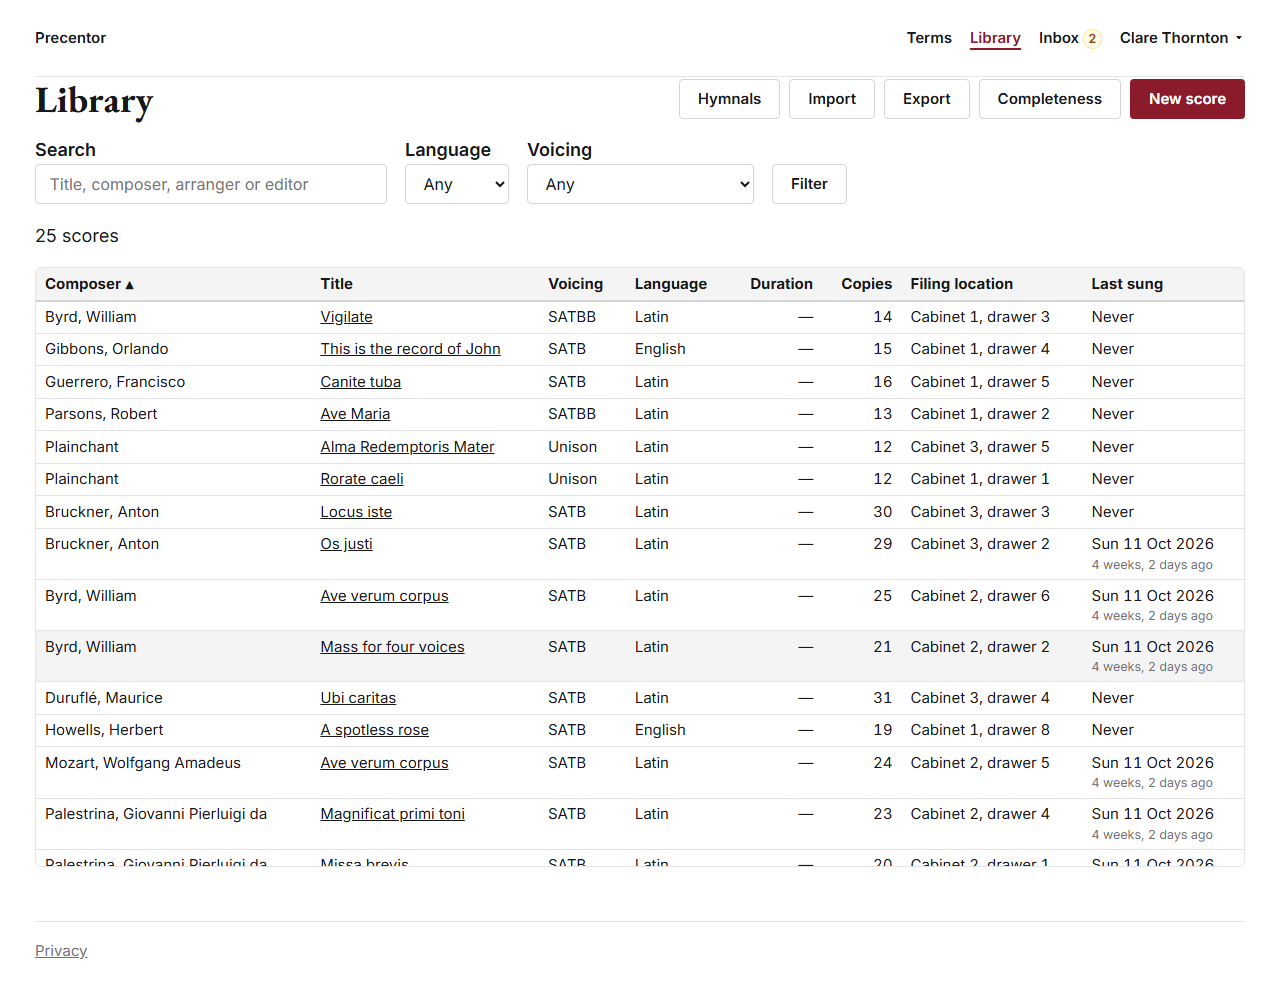
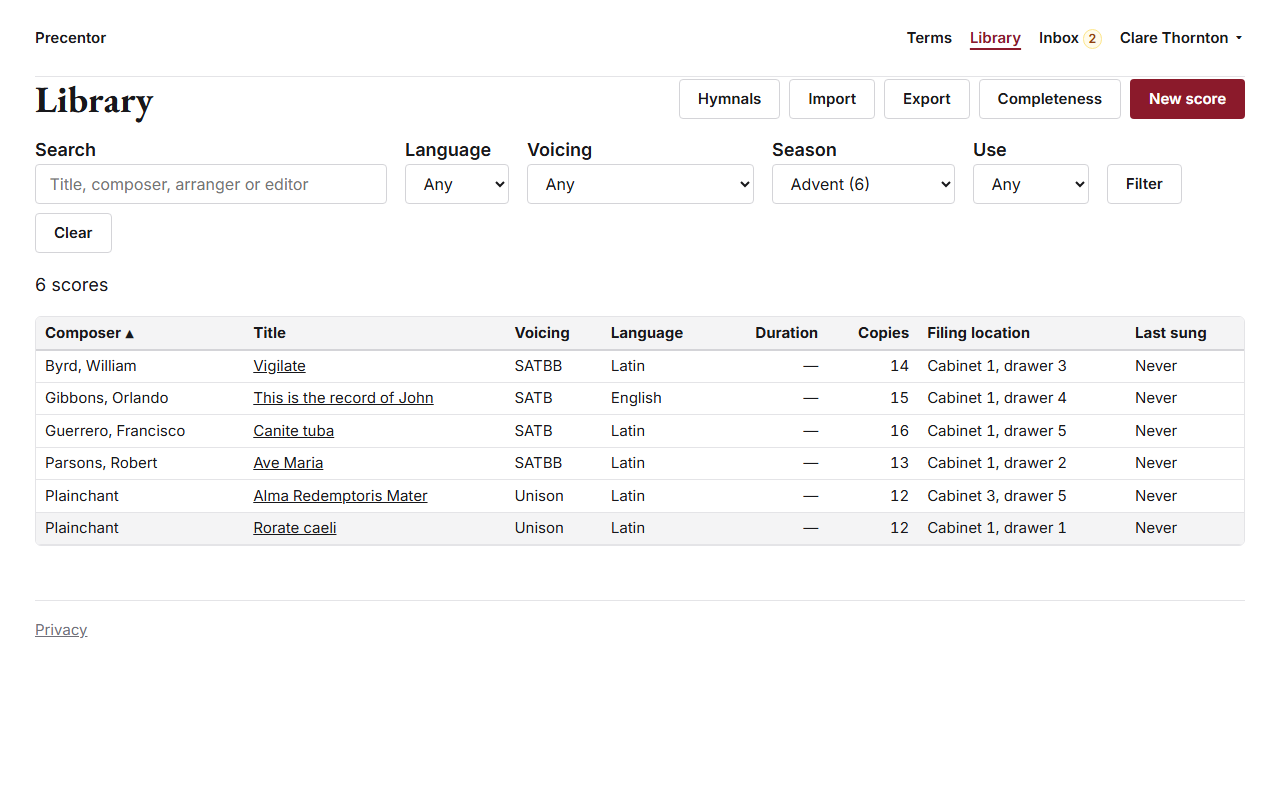
Describe the Library's new Suitable-for filters
The README, the user stories and the models plan spoke of a filter
by what scores suit that didn't exist. They now describe the menus as
built, and Figure 4 shows one in use rather than an address edited by
hand.

diff --git a/README.md b/README.md
@@ -196,11 +196,11 @@ they're filed, the duration, background and interpretation notes, and
 a vocal range for each part. Scores can be tagged with the uses,
 seasons and occasions they suit.
 
-**In the app.** The librarian adds scores, finds them again with search and filters, and keeps each one's details up to date.
+**In the app.** The librarian adds scores, finds them again with search and filters, and keeps each one's details up to date. The filters are Language and Voicing, and Season, Use and Occasion for what a score suits; each lists only what the library has, with a count, and choosing several shows the scores that match them all.
 
-![The library table with the scores suited to Advent ranked first, with columns for composer, voicing, language, copies and last sung](docs/screenshots/08-library-filtered.png)
+![The library filtered to the scores suited to Advent, with the Season menu showing Advent and columns for composer, voicing, language, copies and last sung](docs/screenshots/08-library-filtered.png)
 
-_Figure 4. The library with music suited to Advent ranked first, and the last-sung date for each score._
+_Figure 4. The library filtered to music suited to Advent: the Season menu set to Advent, and its six scores._
 
 ![A score's page for Parsons' Ave Maria showing its details and the services it has been planned for](docs/screenshots/09-score.png)
 
@@ -999,7 +999,8 @@ behind each choice is in [`docs/models_plan.md`](docs/models_plan.md).
 - A service has one main **liturgical occasion** and any number of
   additional ones. Occasions belong to a **liturgical season**. A score
   or a hymn can be tagged as suited to occasions, seasons and use
-  types, which ranks it higher when a piece is proposed.
+  types, which ranks it higher when a piece is proposed, and the
+  Library can be filtered by those tags.
 - **Comments** attach to a term, a service or a piece through one
   generic relation (`content_type` and `object_id`), and a reply points
   at the comment it answers.
@@ -1548,7 +1549,7 @@ the role column in §2 says who may use each one.
 | Organisation                | Sign-up page (`signup`)                                   | Its name on every page and the music list          | Church name on Settings (`site_config_update`)                                                  | The owner, after typing its name (`delete_church`)           | not needed: everyone sees only their own                                   |
 | User                        | Joining by invitation (`join`); sign-up for the owner     | Members page (`member_list`)                       | Role (`change_role`), owner (`make_owner`), own password (`password_change`) or by a reset link the owner makes (`reset_link`), opened at `password_reset_confirm` | Removed, not deleted (`remove`), and brought back (`restore`); their own account, after their password (`delete_account`) | Members page                                                               |
 | Invitation                  | Invite someone (`invite`)                                 | Link shown once (`invitation_link`); Members page  | not available (cancel and make another)                                                         | Cancel (`invitation_cancel`)                                  | Members page, "Waiting to join"                                            |
-| Score                       | Add score (`score_create`), or many at once by importing   | Library (`score_list`), score page (`score_detail`), or all as a CSV (`export_library`) | Edit (`score_update`)                                                                          | Delete, after a confirmation (`score_delete`)                 | Search box, Language, Voicing, Suitable-for filters and sortable columns; the completeness page (`completeness`) |
+| Score                       | Add score (`score_create`), or many at once by importing   | Library (`score_list`), score page (`score_detail`), or all as a CSV (`export_library`) | Edit (`score_update`)                                                                          | Delete, after a confirmation (`score_delete`)                 | Search box; Language, Voicing, Season, Use and Occasion filters; sortable columns; the completeness page (`completeness`) |
 | Import (`ScoreImport`)      | Import a spreadsheet or a Google Sheets link (`score_import`), from the template (`import_template`) | Result page (`score_import_detail`), Imports list (`score_import_list`) | Keep it (`keep_import`)                                                                          | Remove it and its scores, after a confirmation (`remove_import`) | Imports list, waiting ones first; a notice on the Library while one waits |
 | Hymnal                      | New hymnal (`hymnal_create`)                              | Hymnals (`hymnal_list`), its page (`hymnal_detail`) | Edit, archive (`hymnal_update`) | Delete, after a confirmation, unless hymns were sung from it (`hymnal_delete`) | Hymnals page, linked from the Library |
 | A hymnal's import (`HymnImport`) | Import a list or a Google Sheets link from the hymnal's page (`hymn_import`), from the template (`hymn_import_template`) | Result page (`hymn_import_detail`) | Keep it (`keep_hymn_import`) | Remove it after a confirmation, taking away the entries and tunes it added and emptying the blanks it filled, unless they're in use (`remove_hymn_import`) | The hymnal's page, with a notice while one waits |
@@ -1561,7 +1562,7 @@ the role column in §2 says who may use each one.
 | Piece (`RolePiece`)         | Propose a score, a hymn by book and number, or a reference (`add_piece`) | Service page, score page history, music list       | Confirm and unconfirm (`toggle_confirm`); a hymn's tune (`set_tune`)                                                        | not available on its own (removed with its slot)              | Service page; the score page lists where each score was used               |
 | Slot template               | New template (`slot_template_create`)                     | Templates page (`slot_template_list`)              | Edit (`slot_template_update`)                                                                   | Delete (`slot_template_delete`)                               | Templates page; buttons on each service                                    |
 | Template slot (`TemplateSlot`) | A blank row on the template form (`slot_template_create`, `slot_template_update`) | Templates page, listed under each template; the template form | Name, kind, proper part and order on the template form | The row's Remove box on the template form | The template form, in order |
-| Use type                    | Typed on the score form                                   | Score page; Suitable-for filter                    | not available                                                                                   | not available                                                 | Library filter                                                             |
+| Use type                    | Typed on the score form                                   | Score page; the Library's Use filter               | not available                                                                                   | not available                                                 | Library filter                                                             |
 | Comment                     | Comment or reply (`add_comment`)                          | Inbox (`inbox`); each term's and service's thread  | Close and reopen (`toggle_close`); the text can't be edited                                     | Delete a closed thread (`delete_comment`)                     | Inbox of open threads; the count in the menu                               |
 | Settings (`SiteConfig`)     | Made with the church                                      | Settings page; the music list                      | Settings (`site_config_update`)                                                                 | not available                                                 | not needed: one per church                                                 |
 | Liturgical occasion, season | Loaded by `manage.py load_calendar`                       | Service pages, occasion menus, the music list      | not available (shared reference data)                                                           | not available                                                 | The service form suggests the day's occasions from its date                |

diff --git a/docs/models_plan.md b/docs/models_plan.md
@@ -434,7 +434,11 @@ calendar, a specific named day), not one generic tag.
 `ScoreQuerySet.ranked_by_suitability(occasion=, season=, use_type=)`
 annotates an `is_suited` flag and sorts matching scores to the top. It
 never filters, because an untagged score might still be the right
-choice and the app has no way to know otherwise. Each condition is a
+choice and the app has no way to know otherwise. That holds for the
+piece picker, which ranks. The Library, from 10 November, filters by
+the same tags instead, through its Season, Use and Occasion menus,
+because there someone is looking for what's tagged for a day rather
+than choosing one piece for a slot. Each condition is a
 `pk__in` subquery ("is this score among those tagged X?"); an earlier
 version joined through the tags, which listed a score with several
 tags once per tag. Each field has `help_text` with examples ("Mass,

diff --git a/docs/user_stories.md b/docs/user_stories.md
@@ -13,7 +13,7 @@ These user stories drive the design and functionality of Precentor.
 - As a conductor, I want to filter the score library by voicing,
   language, and liturgical occasion, so I can find pieces my choir can
   actually sing right now.
-  - Met by: The Library (`score_list`): Voicing, Language and Suitable-for filters, the last by occasion or season.
+  - Met by: The Library (`score_list`): Voicing and Language filters, and Season, Use and Occasion filters for what a score suits.
 - As a conductor, I want to see how long it's been since a piece was
   last sung (with full history available on demand), so I can avoid
   repeating it too often, or repeat it on purpose.
